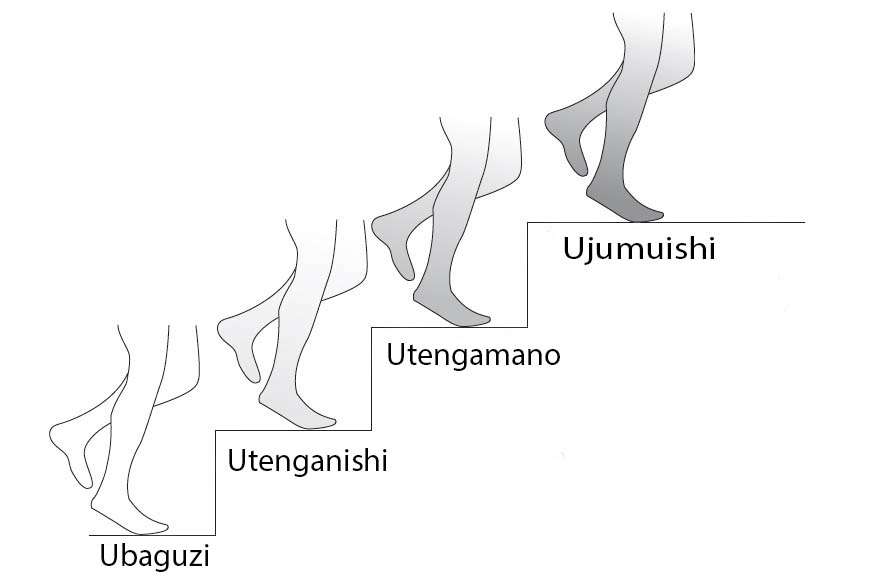
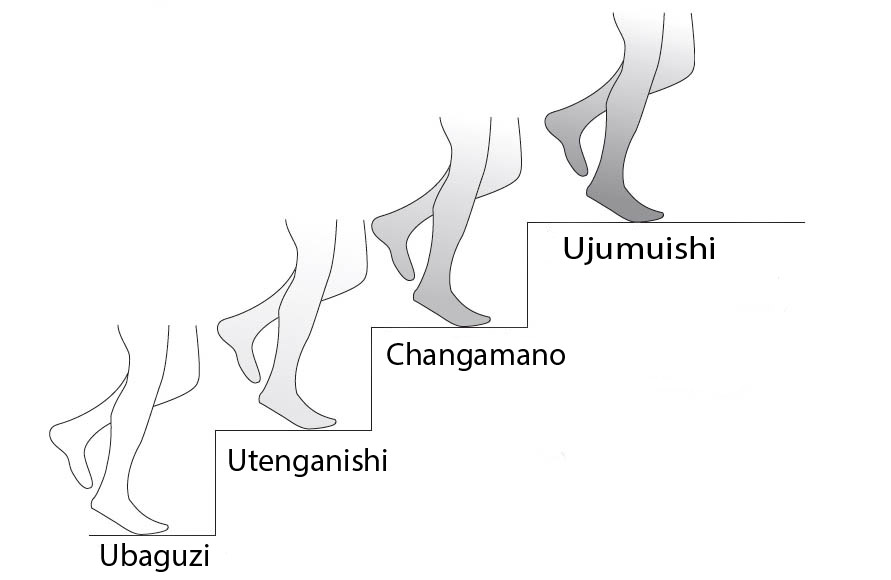
Quiz Translated

Changed region(s): [[0.4242, 0.5897, 0.6364, 0.6517], [0.303, 0.7759, 0.4242, 0.8069]]

diff --git a/templates/enable-quiz-template.html b/templates/enable-quiz-template.html
@@ -48,8 +48,8 @@
             </form>
         </div>
         <div>
-            <button ng-show="state == 'result' && pageIndex<totalPages-1" ng-click="next()" class="quizButton">NEXT</button>
-            <button ng-show="state == 'result' && pageIndex==totalPages-1" ng-click="next()" class="quizButton">DONE</button>
+            <button ng-show="state == 'result' && pageIndex<totalPages-1" ng-click="next()" class="quizButton">{{ 'QUIZ_NEXT_BUTTON' | translate }}</button>
+            <button ng-show="state == 'result' && pageIndex==totalPages-1" ng-click="next()" class="quizButton">{{ 'QUIZ_DONE_BUTTON' | translate }}</button>
         </div>
         <div ng-show="state == 'result'" ng-repeat="a in currentQuestion.answers" aria-hidden="true">
             <p class="quizFeedback" ng-show="a.correct == currentData[$index]" ng-bind-html="trustResource(a.correct_feedback)"></p>
@@ -64,14 +64,14 @@
             <p ng-show="percentScore < passPercent" ng-bind-html="trustResource(summaryfail)"></p>
             <div ng-show="(incorrectAnswers.length > 0)">
                 <br>
-                <h5>{{percentScore >= passPercent ? 'INCORRECT_ANSWERS_PASSED' : 'INCORRECT_ANSWERS_FAILED'}}:</h5>
+                <h5>{{percentScore >= passPercent ? 'INCORRECT_ANSWERS_PASSED' : 'INCORRECT_ANSWERS_FAILED'| translate}}:</h5>
                 <ul>
                     <li ng-repeat="i in incorrectAnswers">{{i}}</li>
                 </ul>
             </div>
         </div>
         <div>
-            <button ng-show="(percentScore < passPercent)" ng-click="start()" class="md-raised md-primary md-cornered hmsbtn">TRY AGAIN!</button>
+            <button ng-show="(percentScore < passPercent)" ng-click="start()" class="md-raised md-primary md-cornered hmsbtn">{{ 'QUIZ_TRYAGAIN_BUTTON' | translate }}</button>
         </div>
     </div>
 

diff --git a/content/sensory/s02_l01_sw.html b/content/sensory/s02_l01_sw.html
@@ -1,7 +1,7 @@
 <meta name="categories" content="">
 <div layout="column" class="partial">
     <enable-section-header picpath="classfrombehind.jpg" picalt="Banner image description comes here"
-                           title="Jumuishi, isiyo jumuishi, au tengamano?"></enable-section-header>
+                           title="Jumuishi, isiyo jumuishi, au changamano?"></enable-section-header>
 
     <div layout-padding layout="column" class="partialContent">
 
